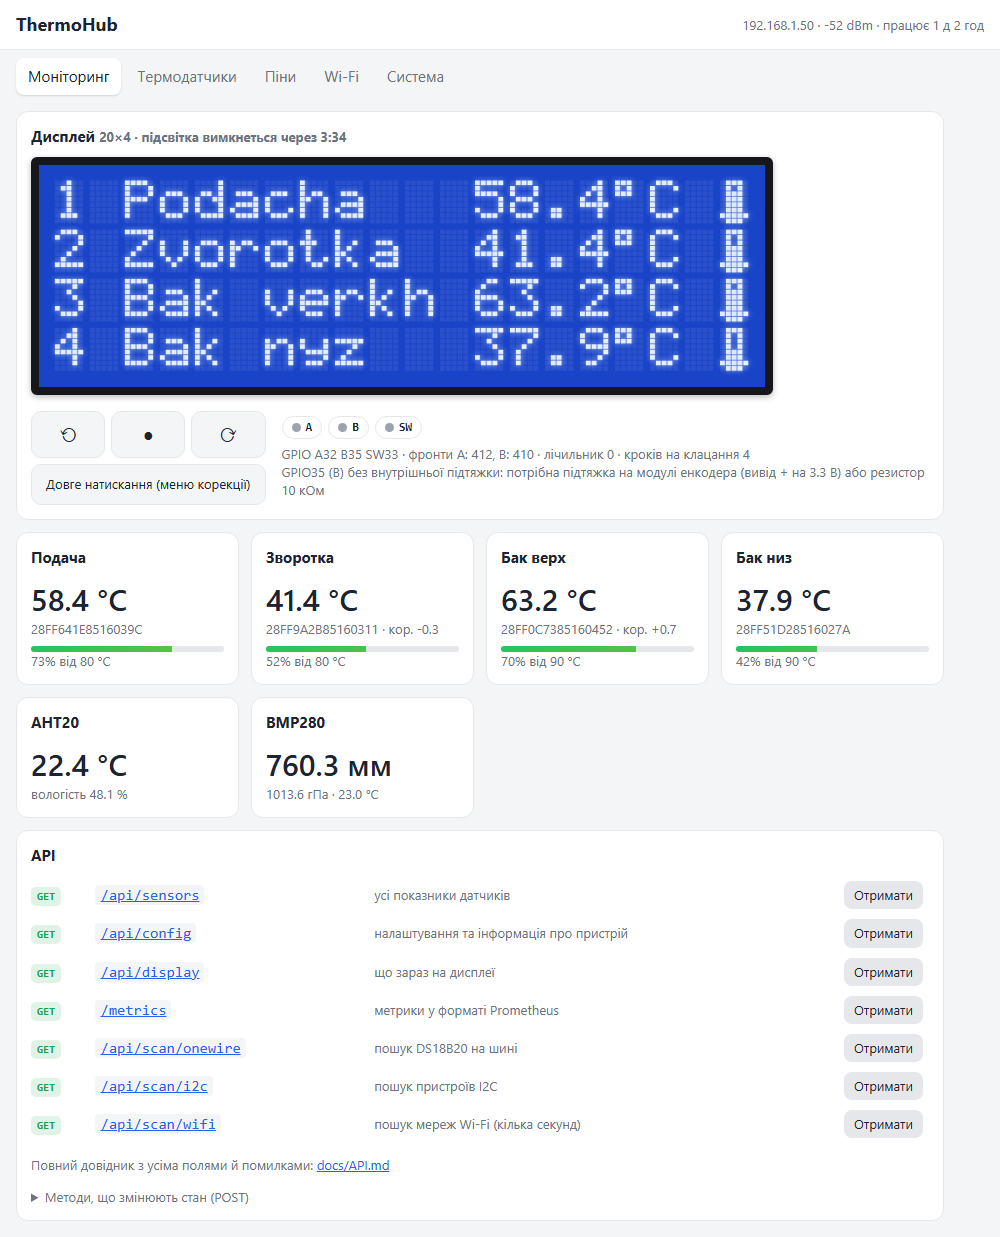
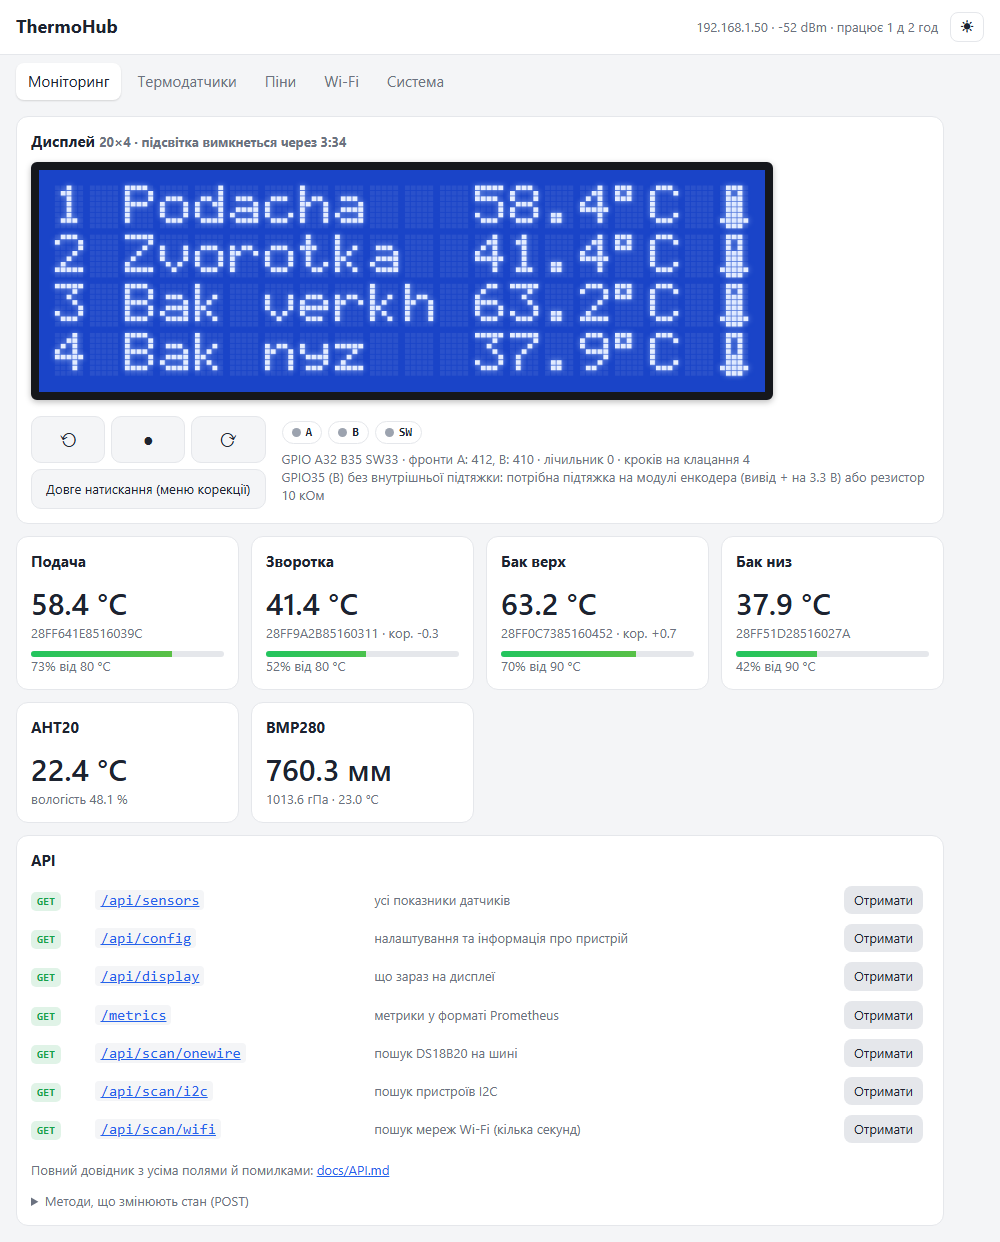
Admin: theme button (auto/light/dark), remembered per browser
- Header button cycles system -> light -> dark; choice stored in localStorage and applied
  before first paint; ?theme=light|dark|auto sets it from a bookmark (kiosk tablets)
- CSS: html[data-theme] overrides prefers-color-scheme (variables, JSON highlight)
- Screenshots retaken with the button

diff --git a/src/web_page.h b/src/web_page.h
@@ -5,10 +5,17 @@ static const char INDEX_HTML[] PROGMEM = R"HTML(<!doctype html>
 <html lang="uk"><head><meta charset="utf-8">
 <meta name="viewport" content="width=device-width,initial-scale=1">
 <title>ThermoHub</title>
+<script>/* apply the saved theme before first paint; ?theme=light|dark|auto sets and saves it */
+try{var q=new URLSearchParams(location.search).get('theme');
+if(q=='auto')localStorage.removeItem('thTheme');else if(q=='light'||q=='dark')localStorage.setItem('thTheme',q);
+var t=localStorage.getItem('thTheme');if(t=='light'||t=='dark')document.documentElement.dataset.theme=t}catch(e){}</script>
 <style>
 :root{color-scheme:light dark;--bg:#f4f5f7;--card:#fff;--fg:#1d2330;--mut:#6b7280;--acc:#2563eb;--link:#2563eb;--bad:#dc2626;--ok:#16a34a;--bd:#e5e7eb}
 a{color:var(--link)}
-@media(prefers-color-scheme:dark){:root{--bg:#111318;--card:#1b1e25;--fg:#e6e8ec;--mut:#9aa1ad;--bd:#2b2f38;--link:#93c5fd}}
+/* theme: "auto" follows the system; data-theme="light|dark" on <html> forces it */
+:root[data-theme=dark]{color-scheme:dark;--bg:#111318;--card:#1b1e25;--fg:#e6e8ec;--mut:#9aa1ad;--bd:#2b2f38;--link:#93c5fd}
+:root[data-theme=light]{color-scheme:light}
+@media(prefers-color-scheme:dark){:root:not([data-theme=light]){--bg:#111318;--card:#1b1e25;--fg:#e6e8ec;--mut:#9aa1ad;--bd:#2b2f38;--link:#93c5fd}}
 *{box-sizing:border-box}body{margin:0;font:15px/1.4 system-ui,sans-serif;background:var(--bg);color:var(--fg)}
 header{display:flex;align-items:center;gap:12px;padding:12px 16px;background:var(--card);border-bottom:1px solid var(--bd);flex-wrap:wrap}
 header b{font-size:18px}#st{color:var(--mut);font-size:13px;margin-left:auto}
@@ -60,16 +67,19 @@ table.api td:last-child{width:1%;white-space:nowrap}
 .apibar{display:flex;justify-content:space-between;align-items:center;margin-top:10px;font-size:13px;color:var(--mut)}
 #apiPre{background:var(--bg);border:1px solid var(--bd);border-radius:8px;padding:10px 12px;margin:6px 0 8px;max-height:420px;overflow:auto;font:12.5px/1.45 ui-monospace,Consolas,"Courier New",monospace;white-space:pre}
 .jk{color:#7c3aed}.js{color:#15803d}.jn{color:#c2410c}.jb{color:#2563eb}.jz{color:#9ca3af}
-@media(prefers-color-scheme:dark){.jk{color:#c4b5fd}.js{color:#86efac}.jn{color:#fdba74}.jb{color:#93c5fd}}
+:root[data-theme=dark] .jk{color:#c4b5fd}:root[data-theme=dark] .js{color:#86efac}:root[data-theme=dark] .jn{color:#fdba74}:root[data-theme=dark] .jb{color:#93c5fd}
+@media(prefers-color-scheme:dark){:root:not([data-theme=light]) .jk{color:#c4b5fd}:root:not([data-theme=light]) .js{color:#86efac}:root:not([data-theme=light]) .jn{color:#fdba74}:root:not([data-theme=light]) .jb{color:#93c5fd}}
 details summary{cursor:pointer;margin-top:10px}
 #updBar0{background:#2563eb1a;border:1px solid var(--acc);border-radius:12px;padding:10px 14px;margin-bottom:12px}
 .notes{background:var(--bg);border:1px solid var(--bd);border-radius:8px;padding:8px 10px;max-height:200px;overflow:auto;white-space:pre-wrap;font:13px/1.4 system-ui,sans-serif}
 .bar{height:10px;background:var(--bd);border-radius:5px;overflow:hidden;margin:10px 0 4px}.bar i{display:block;height:100%;width:0;background:var(--acc);transition:width .3s}
 .fill{height:6px;background:var(--bd);border-radius:3px;overflow:hidden;margin-top:8px}.fill i{display:block;height:100%;background:linear-gradient(90deg,#22c55e,#eab308,#ef4444);background-size:100vw 100%}
 .barsel{margin-bottom:12px}#barPrev{border-radius:4px}
+.themebtn{border:1px solid var(--bd);background:none;color:var(--fg);border-radius:8px;width:34px;height:30px;cursor:pointer;font-size:16px;line-height:1;padding:0}
+.themebtn:hover{border-color:var(--acc)}
 #demoBar{background:#f59e0b22;border:1px solid #f59e0b;border-radius:12px;padding:10px 14px;margin-bottom:12px}
 </style></head><body>
-<header><b>ThermoHub</b><span id="st">…</span></header>
+<header><b>ThermoHub</b><span id="st">…</span><button id="themeBtn" type="button" class="themebtn"></button></header>
 <nav id="nav">
 <button data-t="mon" class="on">Моніторинг</button><button data-t="ds">Термодатчики</button>
 <button data-t="pins">Піни</button><button data-t="wifi">Wi‑Fi</button><button data-t="sys">Система</button>
@@ -202,6 +212,16 @@ details summary{cursor:pointer;margin-top:10px}
 <script>
 const $=id=>document.getElementById(id);
 const sleep=ms=>new Promise(r=>setTimeout(r,ms));
+// theme: auto (system) -> light -> dark; remembered per browser (localStorage)
+const THEMES=[['auto','◐','Тема: як у системі'],['light','☀','Тема: світла'],['dark','☾','Тема: темна']];
+let theme=(()=>{try{return localStorage.getItem('thTheme')||'auto'}catch(e){return 'auto'}})();
+function applyTheme(){const d=document.documentElement,th=THEMES.find(x=>x[0]==theme)||THEMES[0];
+  if(th[0]=='auto')delete d.dataset.theme;else d.dataset.theme=th[0];
+  $('themeBtn').textContent=th[1];$('themeBtn').title=th[2]+' — натисніть, щоб змінити'}
+applyTheme();
+$('themeBtn').onclick=()=>{theme=THEMES[(THEMES.findIndex(x=>x[0]==theme)+1)%THEMES.length][0];
+  try{if(theme=='auto')localStorage.removeItem('thTheme');else localStorage.setItem('thTheme',theme)}catch(e){}
+  applyTheme();toast(THEMES.find(x=>x[0]==theme)[2])};
 // 93780 -> "1 д 2 год", 3900 -> "1 год 5 хв", 300 -> "5 хв"
 function fmtUp(s){const d=Math.floor(s/86400),h=Math.floor(s%86400/3600),m=Math.floor(s%3600/60);
   return d?`${d} д ${h} год`:h?`${h} год ${m} хв`:`${m} хв`}

diff --git a/README.md b/README.md
@@ -16,8 +16,10 @@ pio run -t upload && pio device monitor
 ## Вебадмінка
 
 Адмінка відкривається за адресою пристрою (`http://thermohub.local` або IP з дисплея).
-Українською, світла й темна тема перемикаються за налаштуваннями системи, працює і з
-телефона. Вкладку можна відкрити прямим посиланням: `#mon`, `#ds`, `#pins`, `#wifi`, `#sys`.
+Українською, працює і з телефона. Тема — кнопка в правому верхньому куті: ◐ як у
+системі → ☀ світла → ☾ темна; вибір запам'ятовується в браузері (окремо на кожному
+пристрої). Для закладок і «кіосків» тему можна задати адресою: `/?theme=light`,
+`/?theme=dark`, `/?theme=auto`. Вкладку можна відкрити прямим посиланням: `#mon`, `#ds`, `#pins`, `#wifi`, `#sys`.
 
 **Моніторинг** — живий емулятор дисплея з віртуальним енкодером, усі датчики з
 індикаторами заповнення, перегляд відповідей API.
